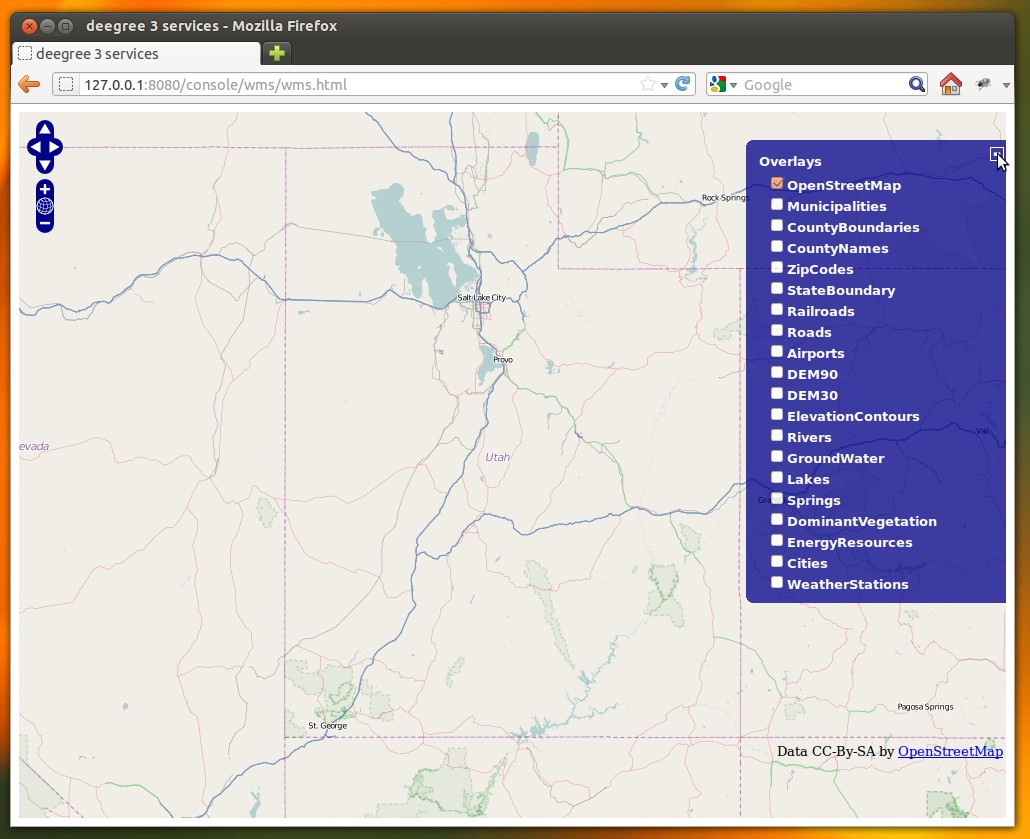
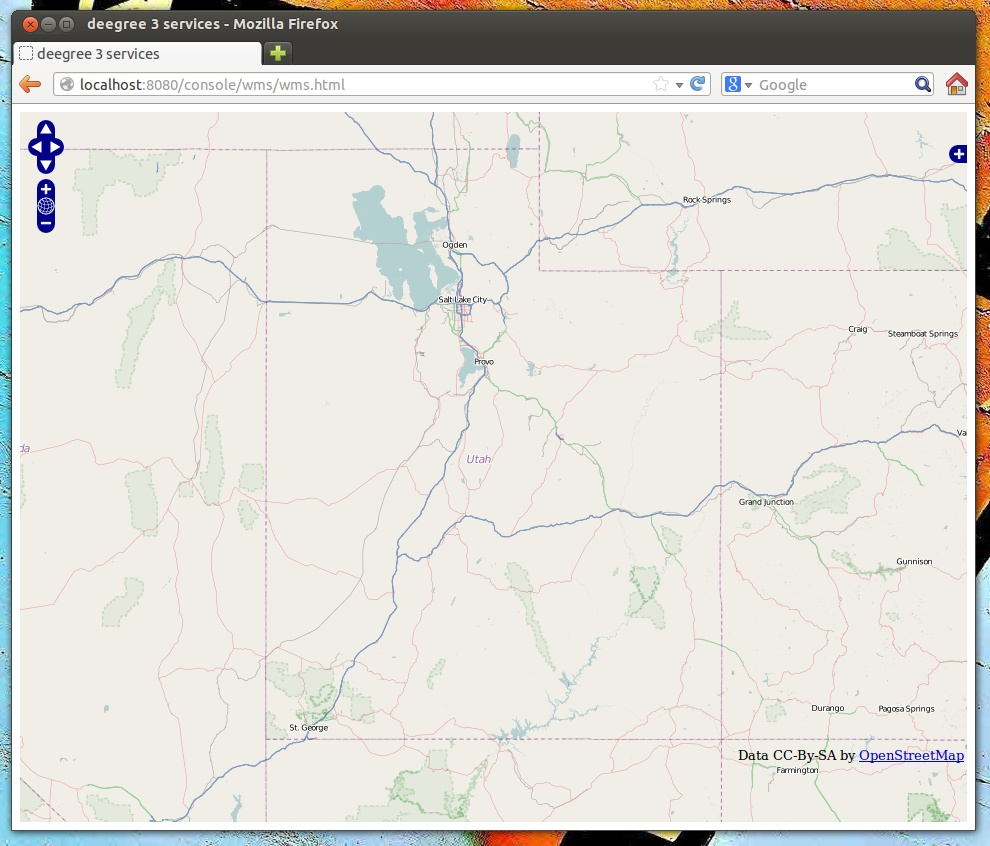
Some work on the getting started chapter

diff --git a/deegree-services/deegree-webservices-handbook/src/main/sphinx/lightly.rst b/deegree-services/deegree-webservices-handbook/src/main/sphinx/lightly.rst
@@ -74,11 +74,78 @@ After downloading has completed, the new workspace will be listed in section "Av
 
 You can now activate the downloaded workspace by clicking on **Start**. Again, this may take some time, as it may require some initialization (e.g. building of indexes). The workspace will be removed from the list of inactive workspaces, instead, the workspace will be marked as "Active" (at the top of the view). Your deegree instance is now running the service configuration that is contained in the downloaded workspace.
 
+.. _anchor-workspace-inspire:
+
+---------------------------------------------
+Example workspace 1: INSPIRE Network Services
+---------------------------------------------
+
+This workspace is a basic INSPIRE View and Download Services setup. It contains a transactional WFS configured for all Annex I Data Themes and a WMS that is configured to display three layers from three Annex I Data Themes. The workspace contains some harmonized dutch base data for Administrative Units, Cadastral Parcels and Addresses. The WFS acts as an INSPIRE Download service (Direct Access) that delivers the base data as valid, harmonized INSPIRE GML and supports rich querying facilities.
+
+.. tip::
+  This workspace is pre-configured to keep INSPIRE features in memory, but can easily be adapted to use PostGIS, Oracle Spatial or Microsoft SQL Server databases as storage backend (see :ref:`anchor-configuration-sqlfeaturestore`).
+
+After downloading and activating the "deegree-workspace-inspire" workspace, you can click on the **see layers** link, which opens a simple web map client that displays a base map (not rendered by deegree, but loaded from the OpenStreetMap servers).
+
+.. figure:: images/console_workspace_inspire1.jpg
+   :figwidth: 60%
+   :width: 50%
+   :target: _images/console_workspace_inspire1.jpg
+
+   Map client showing base map
+
+Click on the "+" icon on the right side to see a list of available layers. You can now tick the INSPIRE layers offered by the deegree WMS. 
+
+.. figure:: images/console_workspace_inspire2.jpg
+   :figwidth: 60%
+   :width: 50%
+   :target: _images/console_workspace_inspire2.jpg
+
+   INSPIRE layers rendered by the deegree WMS
+
+.. tip::
+  The map client is based on `OpenLayers <http://openlayers.org/>`_. You can drag the map by holding the mouse button and moving your mouse. Zooming can be done by the controls on the left or using the mouse wheel.  Alternatively, you can open a rectangle by holding the SHIFT key and clicking the mouse button in the map area.
+
+Note that nothing will be rendered for the AD.Adress layer, as the configured storage (memory) doesn't contain any Address features yet. However, the workspace ships with example WFS-T requests that insert a few harmonized INSPIRE Address features. Use the **send requests** link in the service console (you may need to go back in your browser first):
+
+Use the third drop-down menu to select an example request. Entries "Insert_200.xml" or "Insert_110.xml" can be used to insert a small number of INSPIRE Address features using WFS-T insert requests:
+
+.. figure:: images/console_workspace_inspire3.jpg
+   :figwidth: 60%
+   :width: 50%
+   :target: _images/console_workspace_inspire3.jpg
+
+   WFS-T example requests
+
+After successful insertion (click "Send"), the internal storage contains a few addresses, and you may want to move back to the layer overview ("see layers"). After activating the Address layer, the features will be rendered by the deegree WMS (look for them in the area of Enkhuizen):
+
+.. figure:: images/console_workspace_inspire4.jpg
+   :figwidth: 60%
+   :width: 50%
+   :target: _images/console_workspace_inspire4.jpg
+
+   Ad.Address layer after insertion of example Address features
+
+The example requests also contain a lot of examples for the query possibilities of the deegree WFS, e.g. the requesting of INSPIRE Addresses by street name:
+
+.. figure:: images/console_workspace_inspire5.jpg
+   :figwidth: 60%
+   :width: 50%
+   :target: _images/console_workspace_inspire5.jpg
+
+   More WFS examples
+
+.. tip::
+  This workspace is a good starting point for implementing compliant INSPIRE View and/or Download Services. It can easily be adapted to use PostGIS, Oracle Spatial or Microsoft SQL Server databases as storage backend (see :ref:`anchor-configuration-sqlfeaturestore`). Other things you may want to adapt is the list of layers, the layer styles or the reported metadata.
+
+.. tip::
+  You can also delete features using WFS transactions. After deletion, they will not be rendered anymore. WMS and WFS operate on the same feature store.
+
 .. _anchor-workspace-utah:
 
--------------------------------------------------
-Example workspace 1: Webmapping Services for Utah
--------------------------------------------------
+----------------------------------------
+Example workspace 2: Webmapping Services
+----------------------------------------
 
 The Utah example workspace contains a web mapping setup based on data from Utah. It contains a WMS configuration with some raster and vector layers and some nice render styles. Raster data is read from GeoTIFF files, vector data is backed by shapefiles. Additionally, a WFS is configured that allows to access the raw vector data in GML format.
 
@@ -91,7 +158,7 @@ After downloading and activating the "deegree-workspace-utah" workspace, you can
 
    Map client showing base map
 
-Click on the "+" icon on the right side to see a list of available layers. Tick the ones you want to see (e.g. municipalities). They will be rendered by your deegree webservices instance.
+Click on the "+" icon on the right side to see a list of available layers. Tick the ones you want to see. They will be rendered by your deegree webservices instance.
 
 .. figure:: images/console_workspace_utah2.jpg
    :figwidth: 60%
@@ -101,24 +168,30 @@ Click on the "+" icon on the right side to see a list of available layers. Tick 
    Selecting WMS layers to be displayed
 
 .. tip::
-
   The map client is based on `OpenLayers <http://openlayers.org/>`_. You can drag the map by holding the mouse button and moving your mouse. Zooming can be done by the controls on the left or using the mouse wheel.  Alternatively, you can open a rectangle by holding the SHIFT key and clicking the mouse button in the map area.
-
-In order to send requests against the WFS, you may use the **send requests** link in the service console (you may need to go back in your browser first). A simple interface for sending XML requests will open up. This interface is meant for testing the behaviour of OGC web services on the protocol level and contains some reasonable example requests.
 
 .. figure:: images/console_workspace_utah3.jpg
    :figwidth: 60%
    :width: 50%
    :target: _images/console_workspace_utah3.jpg
 
-   Sending example requests
+   Exploring Utah layers
 
-Select one of the example requests from the drop-down menu and click on the "Send" button. The server response will be displayed.
+In order to send requests against the WFS, you may use the **send requests** link in the service console (you may need to go back in your browser first). A simple interface for sending XML requests will open up. This interface is meant for testing the behaviour of OGC web services on the protocol level and contains some reasonable example requests.
 
 .. figure:: images/console_workspace_utah4.jpg
    :figwidth: 60%
    :width: 50%
    :target: _images/console_workspace_utah4.jpg
+
+   Sending example requests
+
+Select one of the example requests from the drop-down menu and click on the "Send" button. The server response will be displayed.
+
+.. figure:: images/console_workspace_utah5.jpg
+   :figwidth: 60%
+   :width: 50%
+   :target: _images/console_workspace_utah5.jpg
 
    Sending example requests
 
@@ -135,112 +208,92 @@ Select one of the example requests from the drop-down menu and click on the "Sen
 
    Quantum GIS displaying a WMS layer from the utahDemo
 
-
-.. _anchor-workspace-inspire:
-
----------------------------------------------
-Example workspace 2: INSPIRE Network Services
----------------------------------------------
-
-This workspace is a basic INSPIRE View and Download Services setup. It contains a transactional WFS configured for all Annex I Data Themes and a WMS that is configured to display some of the Data Theme layers.
-
-.. tip::
-  This workspace is pre-configured to keep INSPIRE features in memory, but can easily be adapted to use PostGIS, Oracle Spatial or Microsoft SQL Server databases as storage backend (see :ref:`anchor-configuration-sqlfeaturestore`).
-
-After downloading and activating the "deegree-workspace-inspire" workspace, you can click on the **see layers** link, which opens a simple web map client that displays a base map (not rendered by deegree, but loaded from the OpenStreetMap servers).
-
-.. figure:: images/browser.png
-   :figwidth: 60%
-   :width: 50%
-   :target: _images/browser.png
-
-   Map client showing base map
-
-You can now activate the INSPIRE layers, but nothing will be rendered, as the configured storage (memory) doesn't contain any features yet.
-
-.. figure:: images/browser.png
-   :figwidth: 60%
-   :width: 50%
-   :target: _images/browser.png
-
-   INSPIRE layers are empty
-
-In order to insert some INSPIRE features, use the "send requests" link in the service console:
-
-.. figure:: images/browser.png
-   :figwidth: 60%
-   :width: 50%
-   :target: _images/browser.png
-
-   INSPIRE layers are empty
-
-Use the right-most drop-down menu to select an example request. The last entry "blabla.xml" can be used to insert a small number of INSPIRE Address features using a WFS-T insert request:
-
-.. figure:: images/browser.png
-   :figwidth: 60%
-   :width: 50%
-   :target: _images/browser.png
-
-   Insert request
-
-After successful insertion (click "Send"), the internal storage contains some addresses, and you may move back to the layer overview ("see layers"). After activating the Address layer, you should see some addresses painted by the deegree WMS.
-
-The example requests also contain a lot of examples for the query possibilities of the deegree WFS, e.g. the requesting of INSPIRE Addresses by street name:
-
-.. figure:: images/browser.png
-   :figwidth: 60%
-   :width: 50%
-   :target: _images/browser.png
-
-   Query examples
-
 .. _anchor-workspace-csw:
 
 ---------------------------------------------------
 Example workspace 3: An ISO Catalogue Service setup
 ---------------------------------------------------
 
-This workspace contains a catalogue service (CSW) setup that complies to the ISO Application Profile. After downloading and starting it, you will have to setup tables in a PostGIS database first (TBD describe Oracle). You will need to have an empty and spatially-enabled PostGIS database handy that can be accessed from the machine that runs the deegree webservices.
+This workspace contains a catalogue service (CSW) setup that complies to the ISO Application Profile. After downloading and starting it, you will have to setup tables in a PostGIS database first. You will need to have an empty and spatially-enabled PostGIS database handy that can be accessed from the machine that runs the deegree webservices.
 
-As a first step, you will have to create a JDBC connection to your PostGIS database:
+After starting the workspace, some errors will be indicated (the red exclamation marks):
 
-.. figure:: images/browser.png
+.. figure:: images/console_workspace_csw1.jpg
    :figwidth: 60%
    :width: 50%
-   :target: _images/browser.png
+   :target: _images/console_workspace_csw1.jpg
 
-   Creating a JDBC connection
+   Initial startup of deegree-workspace-csw
 
-Click on "server connections -> jdbc", enter "iso" as the connection id and click on "Create new":
+Don't worry, this is just because we're missing the correct connection information to our database. We're going to fix that right away. Click **server connections -> jdbc**:
 
-.. figure:: images/browser.png
+.. figure:: images/console_workspace_csw2.jpg
    :figwidth: 60%
    :width: 50%
-   :target: _images/browser.png
+   :target: _images/console_workspace_csw2.jpg
 
-   Creating a JDBC connection
+   JDBC connection view
 
-You will now be prompted to enter the connection parameters for your database. Make sure to enter the correct connection information (use "Test connection" to check it) and click "OK". You now have a working connection to your database, but we need to create the required database tables as well. Change to the metadata store view ("data stores -> metadata") and click the "Setup tables" link:
+Click **Edit**:
 
-.. figure:: images/browser.png
+.. figure:: images/console_workspace_csw3.jpg
    :figwidth: 60%
    :width: 50%
-   :target: _images/browser.png
+   :target: _images/console_workspace_csw3.jpg
 
-   Creating the tables for the ISO catalogue
+   Editing the JDBC resource configuration file
 
-Click "Create". If all went well, you should now have a working CSW setup. You can connect to the CSW with any compliant client (TBD tested?) or use the "send requests" link to send some raw CSW requests to the service.
+Make sure to enter the correct connection information and click **Save**. You should now have a working connection to your database, and the exclamation mark for **conn1** should disappear. Click **Reload** to force a full reinitialization of the workspace:
 
-Use the right-most drop-down menu to select an example request. The last entry "blabla.xml" can be used to insert some ISO records using a CSW transaction request:
-
-.. figure:: images/browser.png
+.. figure:: images/console_workspace_csw4.jpg
    :figwidth: 60%
    :width: 50%
-   :target: _images/browser.png
+   :target: _images/console_workspace_csw4.jpg
+
+   Reinitializing the workspace
+
+The indicated problems are gone, but we still need to create the required database tables. Change to the metadata store view (**data stores -> metadata**) and click **Setup tables**:
+
+.. figure:: images/console_workspace_csw5.jpg
+   :figwidth: 60%
+   :width: 50%
+   :target: _images/console_workspace_csw5.jpg
+
+   Metadata store view
+
+Click **Create**. In the next view, click **Execute**: 
+
+.. figure:: images/console_workspace_csw6.jpg
+   :figwidth: 60%
+   :width: 50%
+   :target: _images/console_workspace_csw6.jpg
+
+   Creating the tables for storing ISO metadata records
+
+.. figure:: images/console_workspace_csw7.jpg
+   :figwidth: 60%
+   :width: 50%
+   :target: _images/console_workspace_csw7.jpg
+
+   After creation of the tables
+
+If all went well, you should now have a working CSW setup. You can connect to the CSW with compliant clients or use the **send requests** link to send some raw CSW requests to the service. Here, use the right-most drop-down menu to select an example request. For example entry "complex_insert.xml" can be used to insert some ISO example records using a CSW transaction request:
+
+.. figure:: images/console_workspace_csw8.jpg
+   :figwidth: 60%
+   :width: 50%
+   :target: _images/console_workspace_csw8.jpg
 
    Insert request
 
-After successful insertion (click "Send"), some records will be inserted into the PostGIS database. You may explore the other example requests as well.
+After successful insertion (**Send**), some records have been inserted into the CSW (respectively the PostGIS database). You may want to explore other example requests as well, e.g. queries:
+
+.. figure:: images/console_workspace_csw9.jpg
+   :figwidth: 60%
+   :width: 50%
+   :target: _images/console_workspace_csw9.jpg
+
+   Other example CSW requests
 
 .. _anchor-workspace-wps:
 
